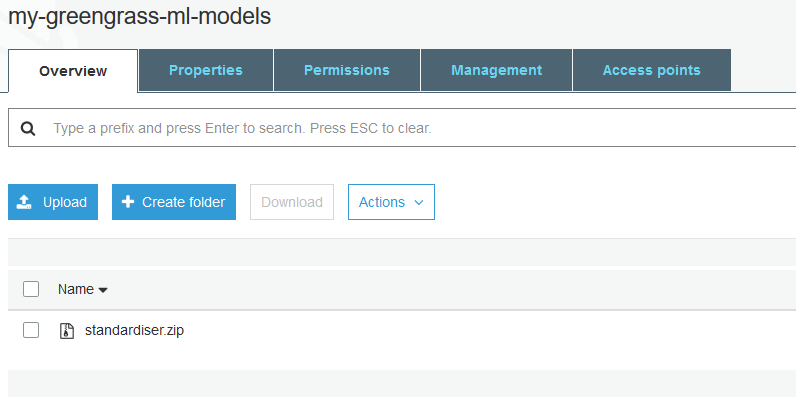
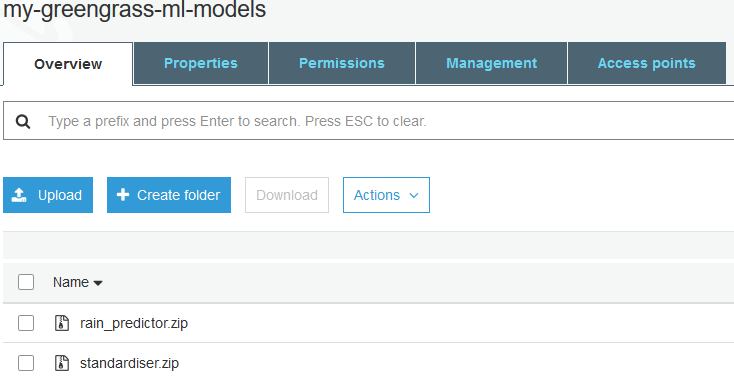
finished in production section

diff --git a/greengrass_repub_lambda.py b/greengrass_repub_lambda.py
@@ -12,15 +12,16 @@ import greengrasssdk
 import logging
 import json
 import time
+import os
 
-# Hardcoding device name. Not the prettiest solution.
-#  Perhaps we can do something better later...
-THING_NAME = "bme680_temperature"
+THING_NAME = os.environ["THING_NAME"]
 
 client = greengrasssdk.client('iot-data')
 
-# Gets the CPU temperature in degrees C
 def get_cpu_temperature():
+    '''
+    Gets the CPU temperature of a Raspberry Pi in deg. C
+    '''
     try:
         f = open("/sys/class/thermal/thermal_zone0/temp")
         raw_temp = f.read()

diff --git a/greengrass_ml.md b/greengrass_ml.md
@@ -9,11 +9,11 @@ Specifically, we will discuss and apply advanced features of AWS Greengrass, inc
 - Machine learning inference in the Greengrass Group with a Tensorflow2 model
 - The Greengrass service role
 
-The target of the demonstration is to build a small IoT application that predicts whether it is raining or not, given the current temperature, relative humidity, and pressure. The weather data comes from our BME680 air quality sensor, and our Raspberry Pi 3B+ will play the role of gateway device.<br>
+The target of the demonstration is to build a small IoT application that predicts whether it is raining or not, given the current temperature, relative humidity, and pressure. The weather data comes from our BME680 air quality sensor, and our Raspberry Pi 3B+ will play the role of gateway device but also runs the code querying the sensor.<br>
 We will be utilising expertise from the previous demonstrations of [publishing](publishing.md), [subscribing](pubsub.md), [Shadows](shadow.md), and [general Greengrass features](greengrass.md).<br>
 # Set Up
 To build the target demonstration, we will walk through three parts. First we will set up a local Shadow within our Greengrass group and use obtained sensor values to contiuously update the Shadow. Then we will enable synchronisation between the local Shadow and a cloud copy of the Shadow. Last, but not least, we will set up inference with a Tensorflow2 machine learning model.<br>
-We will not cover installing and setting up Greengrass Group with a device as this was covered in the [general introduction to Greengrass](greengrass.md#install-and-configure-greengrass). Be sure to refer to previous demonstrations when in doubt.<br>
+We will not cover installing and setting up Greengrass Group with a device, as this was covered in the [general introduction to Greengrass](greengrass.md#install-and-configure-greengrass). Be sure to refer to previous demonstrations when in doubt.<br>
 <div align="center">
 	<img width=500 src="images/greengrass_ml_architecture.png" alt="Greengrass ML Demo Architechture">
 	<br>
@@ -59,7 +59,7 @@ This is how it could look, but since there is a much easier way, this is not how
 ## Republish to Shadow
 We will build a Lambda function that will reside in the Greengrass Group. Its purpose is twofold: it will do a bit of transformation on the sensor readings and it will republish the readings as an update to the local Shadow.<br>
 ### Interact with the local Shadow service from a Lambda function
-For a Greengrass MQTT client running in Lambda function that is deployed into a Greengrass Group, interacting with the local Shadow service is very straight forward. We connect and then perform the action we desire:
+For a Greengrass MQTT client running in a Lambda function that is deployed into a Greengrass Group, interacting with the local Shadow service is very straight forward. We connect and then perform the action we desire:
 ```python
 import greengrasssdk
 import json
@@ -77,17 +77,17 @@ shadow = json.loads(shadow['payload']) # It takes a bit of unpacking...
 # Delete the Shadow
 client.delete_thing_shadow(thingName=THING_NAME)
 ```
-There is no need to deal with callback functions - everthing is taken care of behind the scenes. Furthermore, there is no need to explicitly define the subscriptions in the Greengrass Group for these actions. As long as we use the Greengrass MQTT client, the messages find their way to the local Shadow service, which is just a set of hidden Lambda functions.<br>
+There is no need to deal with callback functions - everthing is taken care of behind the scenes. Furthermore, there is no need to explicitly define the subscriptions in the Greengrass Group for these actions. As long as we use the Greengrass MQTT client, the messages find their way to the local Shadow service, which is just a set of hidden Lambda functions.<br><br>
 We now know everything we need to have our Lambda function perform the transformations we need and update the Shadow. There is just one small aesthetic detail to attend to before we can start building.
 ### Setting environment variables for Lambda functions in Greengrass
-In the snippet above, we hard coded the device ID, the Thing name. This will work just fine, but it does make the Lambda function difficult to reuse. We do, however, have a better option. We can provide Lambda functions running in a Greengrass Group with environment variables. Environment variables are key-value pairs that are specified outside the running script but can be accessed at runtime. If you are already familiar with environment variables for Lambdas running in the cloud, they work in a very similar fashion, but are specified in a different place when used with Greengrass. Let us take it step by step.<br>
+In the snippet above, we hard coded the device ID, the Thing name into the Lambda function. This will work just fine, but it does make the Lambda function difficult to reuse. We do, however, have a better option. We can provide Lambda functions running in a Greengrass Group with environment variables. Environment variables are key-value pairs that are specified outside the running script but can be accessed at runtime. If you are already familiar with environment variables for Lambdas running in the cloud, they work in a very similar fashion, but are specified in a different place when used with Greengrass. Let us take it step by step.<br>
 First we will need to decide on a key-value structure. We will go with the key being `THING_NAME` and the value being the ID of our device.<br>
 Then we need to write our Lambda function to take advantage of the environment variable. This is fairly straight forward, in Python:
 ```python
 import os
 THING_NAME = os.environ('THING_NAME')
 ```
-The last step we need is to actually provide the environment variable to the instance of our Lambda function in the Greengrass Group. We do this by locating our Greengrass Group in the console and configure the lambda in question.
+The last step we need is to actually provide the environment variable to the instance of our Lambda function in the Greengrass Group. We do this by locating our Greengrass Group in the console and configure the Lambda in question.
 <div align="center">
 	<img width=500 src="images/greengrass_lambda_configure.png" alt="Configure Greengrass Lambda">
 	<br>
@@ -102,14 +102,96 @@ At the bottom of the configuration options, we find a set of fields where we can
 
 Now, when we deploy the Lambda function, the environment variable will be available for use. This means that if we have multiple sensors we we can use the same Lambda Alias to create multiple Lambda functions deployed to the Greengrass Group serving their exact device. Less code and less work for us.
 ### Build the republishing Lambda function
-To summarise, these are the steps we take to build the Lambda function that recieves readings from our Thing, treats them, and publishes an update to the local Shadow.<br>
-- We create a Lambda function with, using the full [example](greengrass_repub_lambda.py)
-- We create a Lambda alias
-- In the Greengrass Group, we create a Lambda function refferring to the alias
-- We configure the Lambda function
-  - The timeout should be at least 10 seconds
-  - Access to `/sys` should be enabled
-  - We should provide the environment variable `THING_NAME`
+With a bit of additional logging and error handling, we have our Lambda function for transforming and republishing the weather data:
+```python
+import greengrasssdk
+import logging
+import json
+import time
+import os
+
+THING_NAME = os.environ["THING_NAME"]
+
+client = greengrasssdk.client('iot-data')
+
+def get_cpu_temperature():
+    '''
+    Gets the CPU temperature of a Raspberry Pi in deg. C
+    '''
+    try:
+        f = open("/sys/class/thermal/thermal_zone0/temp")
+        raw_temp = f.read()
+        f.close()
+        cpu_temp = float(raw_temp)/1000.0
+    except Exception as e:
+        logging.error('Unable to obtain CPU temperature. ' + repr(e))
+    return cpu_temp
+
+def get_topic(context):
+    try:
+        topic = context.client_context.custom['subject']
+    except Exception as e:
+        logging.error('Unable to read a topic. ' + repr(e))
+    return topic
+    
+def get_temperature(event):
+    try:
+        temperature = float(event["temperature"])
+    except Exception as e:
+        logging.error('Unable to parse message body. ' + repr(e))
+    return temperature
+
+def function_handler(event, context):
+    try:
+        input_temperature = get_temperature(event)
+        cpu_temps = []
+        for _ in range(8):
+            cpu_temps.append(get_cpu_temperature())
+            time.sleep(1)
+        avg_cpu_temp = sum(cpu_temps)/float(len(cpu_temps))
+        # Compensated temperature
+        comp_temp = 2*input_temperature - avg_cpu_temp
+        message = {}
+        message["state"] = { "reported" : {"temperature" : comp_temp,
+                                            "pressure" : event["pressure"],
+                                            "humidity" : event["humidity"],
+                                            "message" : event["message"]}}
+        logging.info(event)
+        logging.info(message)
+    except Exception as e:
+        logging.error(e)
+    client.update_thing_shadow(thingName=THING_NAME, payload=json.dumps(message))
+    return
+```
+The full example script can also be found [here](greengrass_repub_lambda.py "Lambda for publishing to Shadow"). We now need to pack this script in a zip file along with the Greengrass SDK, so we can create a Lambda function. We create the Lambda function and upload the zip file
+<div align="center">
+	<img width=500 src="images/lambda_repub.png" alt="Repub Lambda">
+	<br>
+</div>
+
+We then create an alias, navigate to the Greengrass console and associate the Lambda function with our Greengrass Group using the alias.
+<div align="center">
+	<img width=500 src="images/greengrass_lambda_add.png" alt="Repub Lambda">
+	<br>
+</div>
+<br>
+<div align="center">
+	<img width=500 src="images/greengrass_lambda_add_existing.png" alt="Repub Lambda">
+	<br>
+</div>
+
+We then cofigure the Lambda function. We need to increase the timeout limit to at least 10 seconds, we need to enable access to `/sys` so it can get the CPU temperature of the Pi, and we should provide the environment variable as discussed above.
+<div align="center">
+	<img width=500 src="images/greengrass_lambda_configure.png" alt="Configure Greengrass Lambda">
+	<br>
+</div>
+<br>
+<div align="center">
+	<img width=500 src="images/greengrass_lambda_configurations_repub.png" alt="Configure repub Lambda">
+	<br>
+</div>
+
+That is it for the Lambda function.
 ## Subscriptions
 We only need one subsription, one going from our device to the Lambda we just created.
 <div align="center">
@@ -117,7 +199,7 @@ We only need one subsription, one going from our device to the Lambda we just cr
 	<br>
 </div>
 
-That is it for the first part. Once we deploy, We have a Thing publishing sensor readings, they are treated and used to update the local Shadow. Right now there is not much to see though, as we have done nothing to make use of or even visualise the local Shadow. We will get there soon though.
+That is it for the first part. Once we deploy, We have a Thing publishing sensor readings, they are transformed and used to update the local Shadow. Right now there is not much to see though, as we have done nothing to make use of or even visualise the local Shadow. We will get there soon though.
 # Setup Shadow Synchronisation
 In this section, we will set up Shadow synchronisation between the local Shadow and the Shadow of our device in the cloud.
 <div align="center">
@@ -135,13 +217,18 @@ Setting up synchronisation is actually fairly straight forward. We navigate to o
 </div>
 
 Now we deploy the change.<br>
+<div align="center">
+	<img src="images/greengrass_deploy.png" alt="iot setup">
+	<br>
+</div>
+
 We can test whether it works by navigating to the page of the particular Device and going to its Shadow tab. If everything we did in the previous section works and the Shadow synchronisation works, we should see that the Shadow gets updated.
 <div align="center">
 	<img width=500 src="images/aws_shadow_sync_working.png" alt="Shadow sync working">
 	<br>
 </div>
 
-# ML at the Edge
+# Machine Learning Inference at the Edge
 In this section, we will deploy a machine learning model into the Greengrass group and have it do inference based on the data coming from our Device.
 <div align="center">
 	<img width=500 src="images/greengrass_ml_architecture_inference.png" alt="Greengrass ML Demo Architechture">
@@ -149,58 +236,95 @@ In this section, we will deploy a machine learning model into the Greengrass gro
     This is the part of the architecture we will build in this section.
 </div>
 <br>
-Specifically, we are going to create a Lambda function that loads a machine learning pipeline consisting of a model that transforms the data into features that are then evaluted in a neural network based model. The data we will get from the local Shadow such that the inference does not rely on live data and inference is effectively decoupled from the data stream.
 
+Specifically, we are going to create a Lambda function that loads a machine learning pipeline consisting of a model that transforms the data into features that are then evaluted in a neural network based model. We will get the data from the local Shadow such that the inference does not rely on live data and inference is effectively decoupled from the data stream.
 ## Prepare the Gateway Device
 In order for Greengrass Core to run Lambda functions it needs access to runtimes on the Gateway Device where it runs. When we set up Greengrass Core, we [verified](greengrass.md#install-and-configure-greengrass) that our desired runtime, Python 3.7, was indeed present on the Device, our Pi, and accessible to Greengrass Core. Our approach to the use of additional libraries has been to include them in the Lambda deployment package. For instance, we included the Greengrass SDK with the Lambda function we created above.<br>
 Machine learning frameworks like Tensorflow or MXNET are not just libraries but rely on their own runtimes. This means that using such frameworks with Greengrass is slightly more complicated, as we cannot just include the library with the Lambda. Lambdas running in a Greengrass Group can, however, utilise machine learning runtimes if they are installed and available. In fact any library can be used in a Lambda function without including it in the deployment package, as long as it is installed in a shared location on the device.<br>
-For this case we are going to use Tensorflow 2 to do inference, but Greengrass does support [other options](https://docs.aws.amazon.com/greengrass/latest/developerguide/ml-inference.html).
-### Installing Tensorflow
-We will [install Tensorflow 2](https://www.tensorflow.org/install) on our Gateway Device. How this is done depends very much on the actual device. If you are following along using a Raspberry Pi, and a regular `pip` install does not work, you might want to check out these [Tensorflow wheels](https://github.com/PINTO0309/Tensorflow-bin).<br>
-The key to making it work is to install Tensorflow in a shared location (e.g. using `sudo pip install`) where the Greengrass user, `ggc_user`, can access it. We can test whether the user can access Tensorflow with the following bash command:
+For this case we are going to use Tensorflow2 to do inference, but Greengrass does support [other options](https://docs.aws.amazon.com/greengrass/latest/developerguide/ml-inference.html).
+### Install Tensorflow
+We will [install Tensorflow2](https://www.tensorflow.org/install) on our Gateway Device, the Pi. How this is done depends very much on the actual device. If you are following along using a Raspberry Pi, and a regular `pip` install does not work, you might want to check out these [unofficial Tensorflow wheels](https://github.com/PINTO0309/Tensorflow-bin).<br>
+The key to making it work, is to install Tensorflow in a shared location (e.g. using `sudo pip install`) where the Greengrass user, `ggc_user`, can access it. We can test whether the user can access Tensorflow with the following bash command:
 ```bash
 sudo -u ggc_user bash -c 'python3.7 -c "import tensorflow"'
 ```
-Note, however, that this is no surefire way of knowing whether everything works as expected. Unless you are intimately familiar with your device, it can take a bit of debugging to work.<br>
-Our reward is that we are able to use Tensorflow 2 from within our Lambda function. Now we are ready to do some machine learning.
+Note, however, that this is no surefire way of knowing whether everything works as expected. Unless you are intimately familiar with your device, it can take a bit of debugging to work. I usually use a Lambda function that just imports Tensorflow and tries something simple like adding two constants and logging the result to test whether the install worked. I deploy the testing Lambda into the Greengrass Group and check the logs for the expected output any unexpected errors.<br><br>
+Our reward for working all this out is that we are able to call Tensorflow2 from within our Lambda function. Now we are ready to do some machine learning.
 ## Manage Machine Learning Resources
-To do inference, we are going to need a trained model. A trained should hold everything needed to recreate the function learned from the data during training. This includes the structure of the model, e.g. the layers of a neural network, along with weights, biases, and any other necessary resource. For Tensorflow 2, trained models are given in the SavedModel format that can be loaded with a single line of code.<br>
-The resources of the trained model then need to be deployed into the Greengrass Group along with the Lambda function that needs to access it. Let us give it a try!
+To do inference, we are going to need a trained model. A trained should hold everything needed to recreate the function learned from the data during training. This includes the structure of the model, e.g. the layers of a neural network, along with weights, biases, and any other necessary resource. For Tensorflow2, trained models are given in the SavedModel format that can be loaded with a single line of code.<br>
+The resources of the trained model then need to be deployed into the Greengrass Group along with the Lambda function that will use it to do inference. Let us give it a try!
 ### A pre-trained model for our case
-Building a dataset and training a machine learning model a bit outside our scope for this demonstration and will obviously depend on the choice of ML framework, but we are still going to need a model for the sake of example. Recall that we wanted to have a model that given readings of temperature, relative humidity, and atmospheric pressure would predict whether it is raining or not.<br>
-I have [prepared](https://github.com/AnHosu/tf-save-model/blob/master/tf-save-model.ipynb "Create a servable model with TF2") such a model and described how to save and load a SavedModel with Tensorflow 2. It is actually a pipeline of two models closely resembling a real data science workflow. The first model takes in data points, pressure, temperature, and humidity, and standardises them. The second one is a small neural network that takes the standardised features as input and returns a value between 0 and 1, indicating a pseudo-probability of rain.<br>
+Building a dataset and training a machine learning model a bit outside our scope for this demonstration and will obviously depend on the choice of ML framework and data science problem, but we are still going to need a model for the sake of example. Recall that we wanted to have a model that given readings of temperature, relative humidity, and atmospheric pressure would predict whether it is raining or not.<br>
+I have [prepared](https://github.com/AnHosu/tf-save-model/blob/master/tf-save-model.ipynb "Create a servable model with TF2") such a model and described how to save and load a SavedModel with Tensorflow2. It is actually a pipeline of two models closely resembling a real data science workflow. The first model takes in data points, pressure, temperature, and humidity, and standardises them. The second one is a small neural network that takes the standardised features as input and returns a value between 0 and 1, indicating a pseudo-probability of rain.<br>
 We will use these two models as examples of doing machine learning inference.
 ### Prepare machine learning resources
-To use machine learning resources like a Tensorflow SavedModel in a Greengrass deployment, it needs to be somewhere where Greengrass can access it. Greengrass can access objects in S3 buckets, so this is where we will put our resources.<br>
-However, Greengrass is a seperate service and needs permission to access other services. We already had Greengrass access Lambda to fetch deployment packages and that worked smoothly, but we will have to understand why before we can ensure the same for S3.<br>
+In order to include machine learning resources like a Tensorflow SavedModel in a Greengrass deployment, they need to be stored somewhere where Greengrass can access them. Greengrass can access objects in S3 buckets, so this is where we will put our resources.<br>
+However, Greengrass is a seperate service and needs permission to access other services. We already had Greengrass access Lambda to fetch deployment packages and that worked smoothly, but we will have to understand why before we can ensure the same for S3.<br><br>
 Greengrass has a service role that determines what other services and actions it has permissions to use. The service role can be found in the AWS IoT console under the Settings tab where we also find our custom endpoint. Somewhere in the list of settings is the Greengrass service role.
 <div align="center">
 	<img width=500 src="images/aws_iot_settings_greengrassrole.png" alt="Greengrass service role">
 	<br>
 </div>
 
-Per default, the policy attached to Greengrass is the managed policy `AWSGreengrassResourceAccessRolePolicy`. At the time of writing, the policy is at version 5 and looks like this:
+Per default, the policy attached to Greengrass is the managed policy `AWSGreengrassResourceAccessRolePolicy`. At the time of writing, [the policy](https://console.aws.amazon.com/iam/home?region=eu-west-1#/policies/arn:aws:iam::aws:policy/service-role/AWSGreengrassResourceAccessRolePolicy "GG Service managed policy") is at version 5 and, among other things, it contains these actions:
+```json
+{
+    "Version": "2012-10-17",
+	"Comment": "NOTE: This is not the full or even a valid policy, just a snippet",
+    "Statement": [
+        {
+            "Sid": "AllowGreengrassToGetLambdaFunctions",
+            "Action": [
+                "lambda:GetFunction",
+                "lambda:GetFunctionConfiguration"
+            ],
+            "Effect": "Allow",
+            "Resource": "*"
+        },
+        {
+            "Sid": "AllowGreengrassAccessToS3Objects",
+            "Action": [
+                "s3:GetObject"
+            ],
+            "Effect": "Allow",
+            "Resource": [
+                "arn:aws:s3:::*Greengrass*",
+                "arn:aws:s3:::*GreenGrass*",
+                "arn:aws:s3:::*greengrass*",
+                "arn:aws:s3:::*Sagemaker*",
+                "arn:aws:s3:::*SageMaker*",
+                "arn:aws:s3:::*sagemaker*"
+            ]
+        },
+        {
+            "Sid": "AllowGreengrassAccessToS3BucketLocation",
+            "Action": [
+                "s3:GetBucketLocation"
+            ],
+            "Effect": "Allow",
+            "Resource": "*"
+        }
+    ]
+}
 ```
-POLICY HERE
-```
-We can immediately see why getting Lambda functions worked to smoothly: this default role allows Greengrass to get any Lambda function, as indicated by the `"*"` resource identifier. There is also an action allowing Greengrass to get objects from S3. This one however limits the permission to objects that includes the string `greengrass`, `sagemaker`, and a few variations hereof.<br>
+We can immediately see why getting Lambda functions worked to smoothly: this default policy allows Greengrass to get any Lambda function, as indicated by the `"*"` resource identifier. There is also an action allowing Greengrass to get objects from S3. This one however limits the permission to objects that include the string `greengrass`, `sagemaker`, or a few variations hereof.<br>
 This gives us a choice when storing our machine learning resources: we can either create a new service policy that allows Greengrass to access S3 objects in a format we specify, or we can comply with the constraints of the default policy and name our resources accordingly. The former might not be a good idea because replacing the policy with one we specify means forgoing the benefits of using a managed policy. So we will do the latter and create a bucket with a name containing the string `greengrass` and put our machine learning resources in there.<br><br>
 A machine learning resource must be zipped, so we will zip the contents of the two SavedModel folders and put them in the S3 bucket. I have [included](ml_resources/) the zipped models in this repo as well.
 <div align="center">
 	<img width=500 src="images/greengrass_ml_s3_resource.png" alt="ML Resources in a bucket">
 	<br>
-	Machine learning resource in an S3 bucket.
+	Machine learning resources in an S3 bucket.
 </div>
 
 Greengrass will unzip the contents when deploying into the Group. Now we just need to tell Greengrass where the resources are and where to put them.
-### Configure machine learning resources in greengrass
+### Create machine learning resources in Greengrass
 Now we are ready to configure machine learning resources in Greengrass. To do so, we locate our Greengrass Group in the console and navigate to the Resources page and the Machine Learning tab. We click the 'Add machine learning resource' button.
 <div align="center">
 	<img width=500 src="images/greengrass_ml_add_resource.png" alt="Add ML Resource">
 	<br>
 </div>
 
-Let us start by creating a resource for the standardiser model. First we will give the resouce a name. I went for `standardiser` but anything goes. Next, we will need to point to the resource in our S3 bucket. Under 'Model source' we choose 'Upload a model in S3', select the bucket we just created, and then select the zipped standardiser model. Finally we will specify a local path on which to keep the unzipped model. Greengrass will create this path on our Core Device and it will be available to the Lambda functions that this machine learning resource is attached to. Any path works, but remember it, as we will need it when we create the inference Lambda function. I went with `/ggml/tensorflow/standardiser`.<br>
+Let us start by creating a resource for the standardiser model. First we will give the resouce a name. I went for `standardiser` but anything goes. Next, we will need to point to the resource in our S3 bucket. Under 'Model source' we choose 'Upload a model in S3', select the bucket we just created, and then select the zipped standardiser model. Finally, we will specify a local path on which to keep the unzipped model. Greengrass will create this path on our Core Device and it will be available to the Lambda functions that this machine learning resource is attached to. Any path works, but remember it, as we will need it when we create the inference Lambda function. I went with `/ggml/tensorflow/standardiser`.<br>
 We have not created the Lambda function yet, so we cannot attach the resource just yet. We Will have a chance to do so later, though. Click Save to create the resource.
 <div align="center">
 	<img width=500 src="images/greengrass_ml_create_resource.png" alt="Add ML Resource">
@@ -375,7 +499,7 @@ We select either of the two resources, click 'Save', and repeat the the process 
 </div>
 
 ### Configure the Lambda
-Our inference Lambda is almost done, we just need to configure it properly. All Lambda functions we have used with Greengrass so far have been on-demand functions that were spawned in response to an MQTT message. This inference Lambda is a bit different. Instead of waiting to process an input on-demand, we want this function run on on a fixed schedule, which we implemented by having the inference code repeat every 10 seconds. In fact, we do not want the Lambda to respnd to any events at all and consequently left the `function_handler` empty
+Our inference Lambda is almost done, we just need to configure it properly. All Lambda functions we have used with Greengrass so far have been on-demand functions that were spawned in response to an MQTT message. This inference Lambda is a bit different. Instead of waiting to process an input on-demand, we want this function run on on a fixed schedule, which we implemented by having the inference code repeat every 10 seconds. In fact, we do not want the Lambda to respnd to any events at all and consequently left the `function_handler` empty.
 ```python
 # The function handler here will not be called. Our Lambda function
 #  should be long lived and stay in the infinite loop above.
@@ -407,11 +531,37 @@ Now, if everything works is right, we should be doing inference at the edge. We 
 	<br>
 </div>
 
-And there it is! Is is a sunny day, so the prediction was right this time, but do not expect it to be very precise. Instead bask in the glory of accomplishment and enjoy the fact that you now know how to manage machine learning models in the cloud and do inference on the edge. Congratulations!
+And there it is! It is a sunny day, so the prediction was right this time, but do not expect it to be very precise. Instead bask in the glory of accomplishment and enjoy the fact that you now know how to manage machine learning models in the cloud and do inference on the edge. Congratulations!
 # In Production
 While we have done much there are still many more things to consider when using Greengrass for machine learning workloads in production. Here is a short discussion of some of these considerations along with a few points and tricks that did not fit in the demonstration.
-## Logging with Greengrass
-
+## Logging in Greengrass
+Greengrass features pretty extensive [logging](https://docs.aws.amazon.com/greengrass/latest/developerguide/greengrass-logs-overview.html "AWS Greengrass docs"). Logs pertaining to the Lambda functions running in the Greengrass Group can be particularly useful during development as well as production. The Logs are stored on our gateway device on a path that depends on user ID and AWS region. It is fairly straightforward to add log entries from a Python Lambda function.
+```python
+import logging
+# Log an error
+logging.error("Hypothetical error")
+# Log some information
+logging.info("My value is 2")
+```
+All sorts of things can and will go wrong when developing, and so a very useful Python design pattern to use in Lambda functions is the try and except with logging.
+```python
+a = 4
+try:
+	# Do whatever we are trying to do
+	a += 1
+except Exception as e:
+	# Log the variables at this time
+	logging.info("a is {0}".format(a))
+	# Log the exception along with a description of what was supposed to happen
+	logging.error("Failed to do the thing I wanted: " + repr(e))
+```
+Indeed we did apply this design pattern in the examples for this demonstration so, when something is not working as expected, check the logs.
 ## CI/CD
-## ML Models and Frameworks
-### ML in the cloud
+We implemented many different parts in this demonstration, and repeating this manual process is obviously not feasible for real IoTs with hundreds of devices. [CloudFormation templates](https://docs.aws.amazon.com/greengrass/latest/developerguide/cloudformation-support.html) will work wonders for the cloud side of things. But, even if we are using AWS IoT services, an IoT very much is a hybrid setup. We still need to install and manage the software running on and near gateway devices and sensors. All in all this sets quite high demands for our CI/CD pipelines.<br>
+For data science projects, however, publishing models to an S3 bucket and inference code to Lambda are relatively trivial tasks, so at least this part of CI/CD can be much easier with Greengrass.
+## Cost
+We have not specifically addressed the subject of cost during this or the previous demonstrations. To be clear, everything we have done in this demonstration and the previous ones should be well within the Free Tier, assuming eligibility and that things are not left running indefinitely. But what about larger IoTs?<br><br>
+Pricing for [AWS IoT](https://aws.amazon.com/iot-core/pricing/ "AWS IoT Core pricing") and [AWS Greengrass](https://aws.amazon.com/greengrass/pricing/ "AWS Greengrass pricing") is fairly transparent and we can connect a lot of devices and send a lot of messages before raking up a bill of any significant size. Indeed, if we did not do Shadow synchronisation, we could copy the architecture of this demonstration, scaling it to hundreds of manufacturing lines, and it would cost us less than $2 per gateway device per year. So does that mean that doing IoT is super cheap? No, it just means that the bill lies elsewhere.<br>
+From a cloud point of view, sending messages to AWS IoT does not do much. The messages are not kept or processed in any way, unless we do so actively. Herein lies a hidden cost: We are going to need more services like Kinesis, SQS, SNS, S3, or DynamoDB before we can start using our data. In particular, processing using cloud compute can be expensive. One of the key reasons for using Greengrass was to lower processing costs by using compute available at the edge. Yet, this means we have to have an edge.<br>
+So, from an edge point of view, we could argue that the whole cloud thing is just an add on to the costs that we already have in building and maintaining servers and networks around whatever process we building an IoT for.<br><br>
+The point is that, even though AWS IoT prices are reasonable and transparent, these are only a small part of the total cost and business case for an IoT. Depending on our intended applications and the tools available locally, it might or might not make sense to involve the cloud. That being said, IoT can be a cheap and fun way to get started with the cloud.
